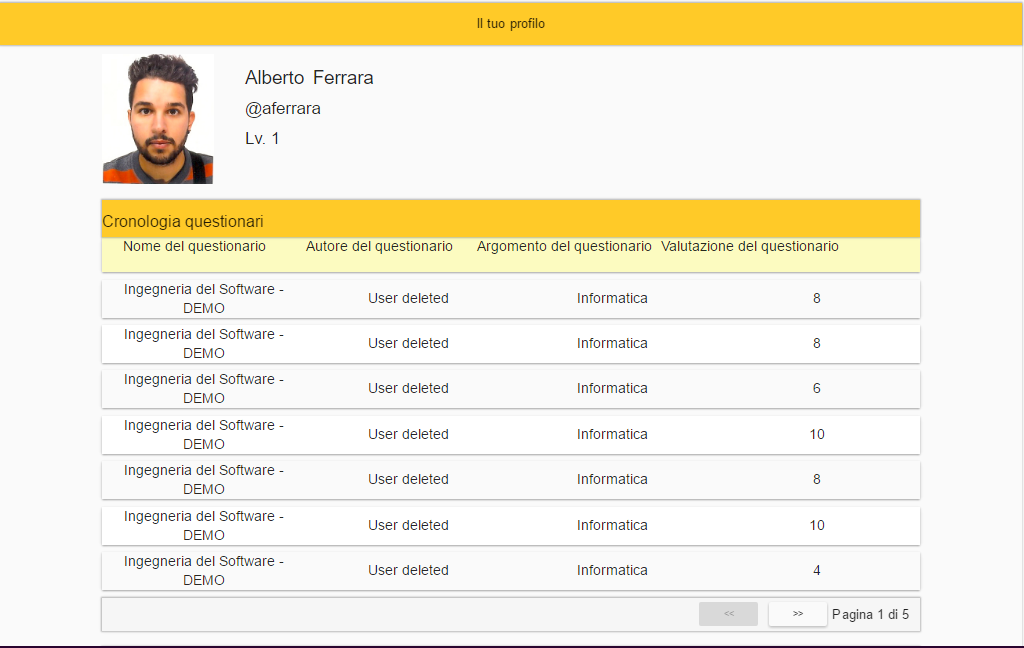
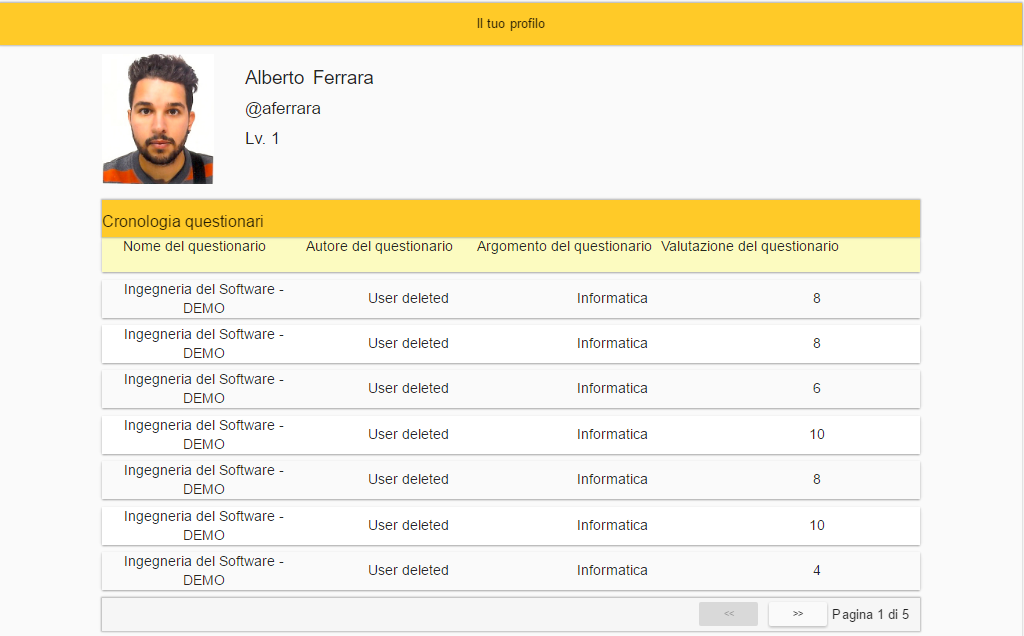
Concluso MU

diff --git a/RA/ManualeUtente/sezioni/GestioneProfilo.tex b/RA/ManualeUtente/sezioni/GestioneProfilo.tex
@@ -1,6 +1,6 @@
 \newpage
 \section{Gestione Profilo}
-Il servizio permette ad un utente autenticato di aggiornare e/o modificare i propri dati personali. Cliccando la voce \textit{Gestione Profilo}, presente nella barra a sinistra, il sistema porta l'utente all'interno della pagina dedicata alla gestione del proprio profilo e account. All'interno di questa sezione è possibile:
+Il servizio permette ad un utente autenticato di modificare i propri dati personali. Cliccando la voce \textit{GESTIONE PROFILO}, presente nella barra a sinistra, il sistema porta l'utente all'interno della pagina dedicata alla gestione del proprio profilo e account. All'interno di questa sezione è possibile:
 \begin{itemize}
 	\item Inserire un'immagine di profilo;
 	\item Modificare il proprio nome;
@@ -12,28 +12,31 @@ Il servizio permette ad un utente autenticato di aggiornare e/o modificare i pro
 \label{GestioneProfilo}
 \begin{figure}[ht]
 	\centering
-	\includegraphics[scale=0.50]{img/gestione_profilo.png}
+	\includegraphics[scale=0.45]{img/gestione_profilo.png}
 	\caption{Gestione profilo}
 \end{figure}
 \FloatBarrier
 
 Non è possibile modificare la propria username una volta inserita in fase di registrazione.
-In questa sezione il sistema permette anche di cambiare la propria tipologia di account. Se l'utente è di tipo \textit{normale} ha la possibilità di passare ad utente di tipo \textit{pro} e viceversa:
+In questa sezione il sistema permette anche di cambiare la propria tipologia di account. 
+
+\newpage
+Se l'utente è di tipo \textit{normale} ha la possibilità di passare ad utente di tipo \textit{pro} e viceversa:
 
 \label{CambioTipologiaAccount}
 \begin{figure}[ht]
 	\centering
-	\includegraphics[scale=0.50]{img/cambia_tipologia.png}
+	\includegraphics[scale=0.45]{img/cambia_tipologia.png}
 	\caption{Cambio tipologia account}
 \end{figure}
 \FloatBarrier
 
-In fine l'utente può eliminare il proprio account dal sistema e tutti i dati annessi:
+In fine l'utente può eliminare il proprio account dal sistema e tutti i suoi dati annessi:
 
 \label{EliminaAccount}
 \begin{figure}[ht]
 	\centering
-	\includegraphics[scale=0.50]{img/elimina_account.png}
+	\includegraphics[scale=0.45]{img/elimina_account.png}
 	\caption{Eliminazione account}
 \end{figure}
 \FloatBarrier

diff --git a/RA/ManualeUtente/sezioni/Autenticazione.tex b/RA/ManualeUtente/sezioni/Autenticazione.tex
@@ -9,15 +9,15 @@
 \end{figure}
 \FloatBarrier
 
-Effettuata la registrazione è possibile autenticarsi al sistema. Compilati correttamente i campi \textit{Username o E-mail} e \textit{Password} il bottone \textit{Accedi} viene abilitato dando la possibilità di autenticarsi. Se l'autenticazione va a buon fine all'utente viene presentata l'Home Page con alcune nuove voci all'interno della barra del menù a destra. Se l'utente appena autenticato è di tipo normale saranno presenti le seguenti voci, le quali rappresentano le operazioni che l'utente è abilitato ad eseguire:
+Effettuata la registrazione è possibile autenticarsi al sistema. Compilati correttamente i campi \textit{Username o E-mail} e \textit{Password}, il bottone \textit{Accedi} viene abilitato dando la possibilità di autenticarsi. Se l'autenticazione va a buon fine, all'utente viene presentata l'Home Page con alcune nuove voci all'interno della barra del menù a destra. Se l'utente appena autenticato è di tipo \textit{normale} saranno presenti le seguenti voci, le quali rappresentano le operazioni che l'utente è abilitato ad eseguire:
 \begin{itemize}
-	\item Gestione Profilo;
+	\item Gestione profilo;
 	\item Gestione domande;
 	\item Cambia lingua.
 \end{itemize}
-Se invece l'utente è del tipo pro, gli verranno presentate le seguenti voci:
+Se invece l'utente è di tipo \textit{pro}, gli verranno presentate le seguenti voci:
 \begin{itemize}
-	\item Gestione Profilo;
+	\item Gestione profilo;
 	\item Gestione questionari;
 	\item Gestione domande;
 	\item Cambia lingua. 

diff --git a/RA/ManualeUtente/sezioni/diario.tex b/RA/ManualeUtente/sezioni/diario.tex
@@ -4,6 +4,26 @@
 	\normalsize
 	\begin{tabularx}{\textwidth}{cXcc}
 		\textbf{Versione} & \textbf{Descrizione} & \textbf{Autore e Ruolo} & \textbf{Data} \\\toprule
+			2.0.0 & Approvazione del documento & \specialcell[t]{\SM\\Responsabile} & 2016-06-05
+			\\\midrule
+			1.1.0 & Verifica del documento & \specialcell[t]{\MP\\Verificatore} & 2016-06-03
+			\\\midrule
+			1.0.6 & Stesura sezione §13.2 Segnalazione degli errori & \specialcell[t]{\GN\\Progettista} & 2016-05-31
+			\\\midrule
+			1.0.5 & Aggiornata sezione §11 Gestione domande & \specialcell[t]{\GN\\Progettista} & 2016-05-31
+			\\\midrule
+			1.0.4 & Aggiornata sezione §10 Gestione questionari & \specialcell[t]{\GN\\Progettista} & 2016-05-31
+			\\\midrule
+			1.0.3 & Stesura sezione §9 Gestione profilo & \specialcell[t]{\GN\\Progettista} & 2016-05-30
+			\\\midrule
+			1.0.2 & Aggiornata la sezione §8 Visualizzazione profilo & \specialcell[t]{\GN\\Progettista} & 2016-05-30
+			\\\midrule
+			1.0.1 & Aggiornata la sezione §6 Autenticazione & \specialcell[t]{\GN\\Progettista} & 2016-05-30
+			\\\midrule
+	\end{tabularx}	
+	\newpage
+	\begin{tabularx}{\textwidth}{cXcc}
+			\textbf{Versione} & \textbf{Descrizione} & \textbf{Autore e Ruolo} & \textbf{Data} \\\toprule		
 			1.0.0 & Approvazione del documento & \specialcell[t]{\GR\\Responsabile} & 2016-05-15
 			\\\midrule
 			0.1.0 & Verifica documento & \specialcell[t]{\MV\\Verificatore} & 2016-05-15

diff --git a/RA/ManualeUtente/sezioni/GestioneDomande.tex b/RA/ManualeUtente/sezioni/GestioneDomande.tex
@@ -1,11 +1,11 @@
 \newpage
 \section{Gestione domande}
-Selezionata la voce \textit{Gestione delle domande} dal menù a sinistra il sistema visualizza la seguente pagina, dalla quale un utente può gestire le proprie domande:
+Selezionata la voce \textit{GESTIONE DELLE DOMANDE} dal menù a sinistra il sistema visualizza la seguente pagina, dalla quale un utente può gestire le proprie domande:
 
 \label{GestioneDomande}
 \begin{figure}[ht]
 	\centering
-	\includegraphics[scale=0.50]{img/gestione_domande.png}
+	\includegraphics[scale=0.45]{img/gestione_domande.png}
 	\caption{Gestione delle domande}
 \end{figure}
 \FloatBarrier
@@ -38,7 +38,7 @@ Una volta creata, la domanda appare all'interno dell'elenco delle proprie domand
 \end{figure}
 \FloatBarrier
 
-Viene dunque presentato all'utente l'editor con all'interno la domanda in codice QML. L'utente ha la possibilità di modificare il codice ed infine di confermare le modifiche:
+Viene dunque presentato all'utente l'editor con all'interno la domanda in codice \textit{QML\ped{G}}. L'utente ha la possibilità di modificare il codice ed infine di confermare le modifiche:
 
 \label{ModificaEditor}
 \begin{figure}[ht]

diff --git a/RA/ManualeUtente/ManualeUtente.tex b/RA/ManualeUtente/ManualeUtente.tex
@@ -1,15 +1,15 @@
 %Generazione delle variabili che andranno a sostituire quelle del template `HomePage.tex`
 \newcommand{\documento}{Manuale Utente}
-\newcommand{\nomedocumentofisico}{ManualeUtente\_v1\_0\_0.pdf}
+\newcommand{\nomedocumentofisico}{ManualeUtente\_v2\_0\_0.pdf}
 \newcommand{\redazione}{\SM, \\ & \GN}
-\newcommand{\verifica}{\MV}
-\newcommand{\approvazione}{\GR}
+\newcommand{\verifica}{\MV, \\ & \MP}
+\newcommand{\approvazione}{\GR, \\ & \SM}
 \newcommand{\uso}{Esterno}
 \newcommand{\destinateTo}{\TV, \\ & \RC, \\ & \ZU}
 \newcommand{\datacreazione}{13 Maggio 2016}
-\newcommand{\datamodifica}{15 Maggio 2016}
+\newcommand{\datamodifica}{31 Maggio 2016}
 \newcommand{\stato}{Approvato}
-\newcommand{\versione}{1}
+\newcommand{\versione}{2}
 
 \def\TABELLE{false}	%abilita - disabilita l'indice delle tabelle
 \def\FIGURE{false} 	%abilita - disabilita l'indice delle figure

diff --git a/RA/ManualeUtente/sezioni/GestioneQuestionari.tex b/RA/ManualeUtente/sezioni/GestioneQuestionari.tex
@@ -1,11 +1,11 @@
 \newpage
 \section{Gestione questionari}
-Selezionata la voce \textit{Gestione questionari} dal menù a sinistra il sistema visualizza la seguente pagina, dalla quale un utente può gestire i propri questionari:
+Selezionata la voce \textit{GESTIONE QUESTIONARI} dal menù a sinistra il sistema visualizza la seguente pagina, dalla quale un utente può gestire i propri questionari:
 
 \label{GestioneQuestionari}
 \begin{figure}[ht]
 	\centering
-	\includegraphics[scale=0.55]{img/gestione_questionari.png}
+	\includegraphics[scale=0.50]{img/gestione_questionari.png}
 	\caption{Gestione questionari}
 \end{figure}
 \FloatBarrier

diff --git a/RA/ManualeUtente/sezioni/VisualizzazioneProfilo.tex b/RA/ManualeUtente/sezioni/VisualizzazioneProfilo.tex
@@ -16,7 +16,7 @@ Verrà presentata una pagina contenente tutti i dati relativi al proprio profilo
 \label{CronologiaQuestionari}
 \begin{figure}[ht]
 	\centering
-	\includegraphics[scale=0.45]{img/cronologia_questionari.png}
+	\includegraphics[scale=0.40]{img/cronologia_questionari.png}
 	\caption{Cronologia questionari svolti}
 \end{figure}
 \FloatBarrier

diff --git a/RA/ManualeUtente/sezioni/HomePage.tex b/RA/ManualeUtente/sezioni/HomePage.tex
@@ -4,7 +4,7 @@
 \label{Home Page}
 \begin{figure}[ht]
 	\centering
-	\includegraphics[scale=0.35]{img/homePage.png}
+	\includegraphics[scale=0.30]{img/homePage.png}
 	\caption{Home Page}
 \end{figure}
 \FloatBarrier
